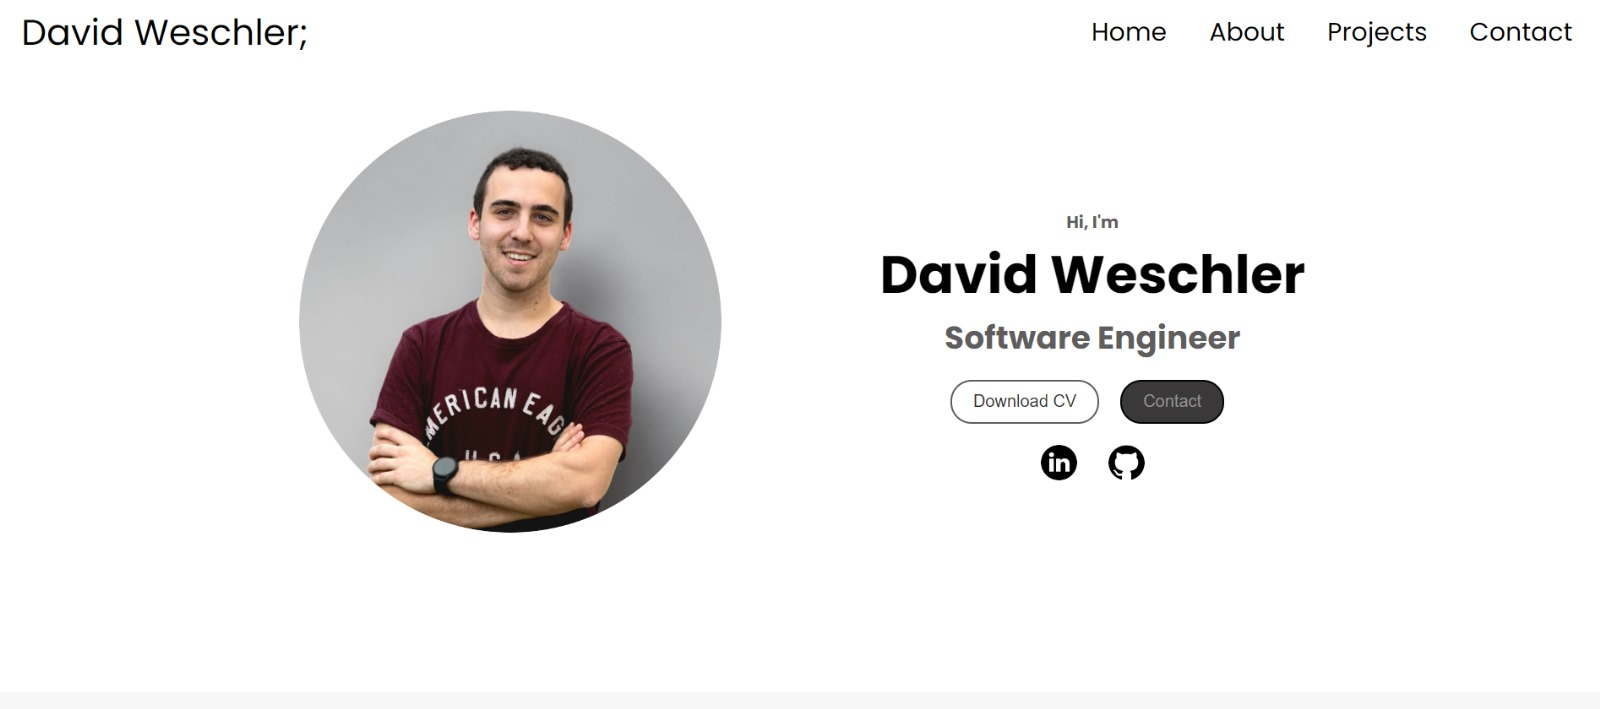
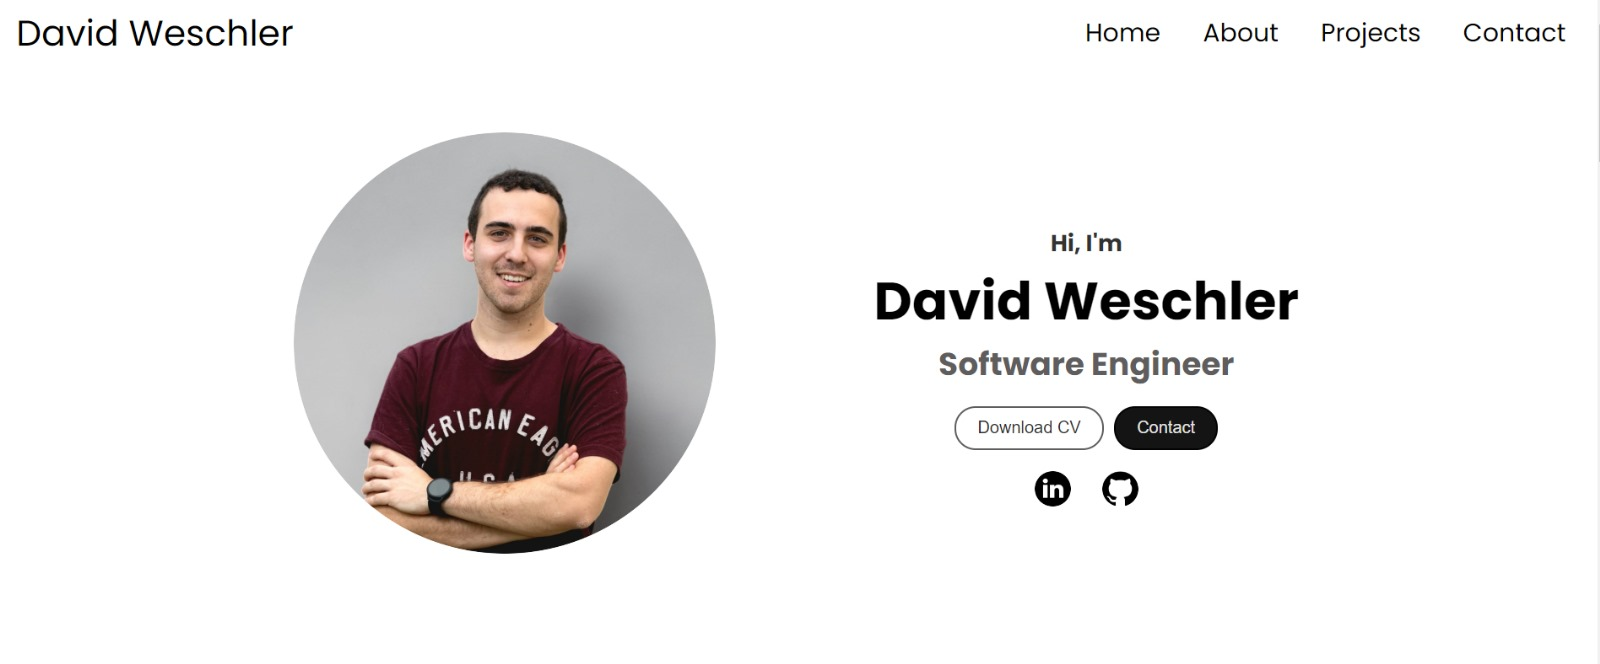
done with the footer. next step: mediaquaries

diff --git a/index.html b/index.html
@@ -10,7 +10,7 @@
   <body>
     <section id="header">
       <nav>
-        <p>David Weschler;</p>
+        <p>David Weschler</p>
         <div class="hamburger">&#9776;</div>
         <ul id="navbar">
           <li><a href="#home">Home</a></li>
@@ -207,41 +207,41 @@
       <div class="section-info">
         <header class="sec-header"><h1>Keep in touch</h1></header>
         <p id="contact-msg">
-          Feel free to drop a message, reach out or just say hello 😎
+          Feel free to drop a message, reach out or just say Hello! 😎
         </p>
-        <form id="contact-form">
-          <input placeholder="Full Name" />
-
+        <form
+          id="contact-form"
+          action="https://formsubmit.co/davidweschler8@gmail.com"
+          method="POST"
+        >
+          <input type="text" name="name" placeholder="Name" required />
           <input
             type="email"
+            name="email"
             placeholder="Email"
             pattern="[a-z0-9._%+-]+@[a-z0-9.-]+\.[a-z]{2,}$"
             required
           />
+          <textarea name="message" placeholder="Message" required></textarea>
 
-          <textarea placeholder="Message" required></textarea>
+          <input
+            type="hidden"
+            name="_next"
+            value="http://127.0.0.1:5501/My_portfolio"
+          />
+          <input type="hidden" name="_captcha" value="false" />
+
           <button type="submit">Send</button>
         </form>
       </div>
     </section>
 
-    <!-- <section id="delete_this">
-      <p>
-        -------------------------------------------------------------------------------------Practice
-        Here----------------------------------------------
-      </p>
-      <p>visit <a href="https://chatgpt.com/">ChatGPT</a></p>
-
-      <form action="https://www.google.com/search" method="get" target="_blank">
-        <input name="q" autofocus placeholder="type here" type="search" />
-        <button>search</button>
-      </form>
-    </section> -->
+    <footer>
+      <div class="footer-content">
+        <p>Copyright © 2024 David Weschler - All rights reserved.</p>
+      </div>
+    </footer>
 
     <script src="script.js"></script>
   </body>
 </html>
-
-<!--add a form in contact, use regex to validate the email: <input pattern="regex_here"-->
-
-<!--use semantic tags!!! no divs-->

diff --git a/style.css b/style.css
@@ -23,7 +23,7 @@ h3 {
 }
 
 h4 {
-  color: #333;
+  color: #5c5c5c;
   font-size: 22px;
 }
 
@@ -179,19 +179,19 @@ body {
   border-radius: 20px;
   border: 2px solid #030303;
   padding: 10px 20px;
-  background-color: #3a3939;
+  background-color: #141414;
   font-size: 16px;
-  color: #949494;
+  color: #e2e2e2;
   transition: background-color 0.3s ease, color 0.3s ease;
 }
 
 #cv-btn:hover {
   cursor: pointer;
-  background-color: #5f5e5e;
+  background-color: #777777;
 }
 
 #contact-btn:hover {
-  background-color: #575757;
+  background-color: #777777;
   color: #000000;
 }
 
@@ -398,6 +398,7 @@ body {
 
 textarea {
   height: 120px;
+  max-height: 300px;
   resize: vertical;
 }
 
@@ -413,10 +414,16 @@ textarea {
   border-radius: 20px;
   font-size: 20px;
   color: white;
-  background-color: #707070;
+  background-color: #797979;
   cursor: pointer;
 }
 
 #contact-form button:hover {
   background-color: #397456;
+}
+
+footer {
+  background-color: #eeeeee;
+  padding: 20px;
+  text-align: center;
 }

diff --git a/script.js b/script.js
@@ -3,7 +3,12 @@
 const hamburger = document.querySelector('.hamburger');
 const navbar = document.getElementById('navbar');
 const skillItems = document.querySelectorAll('.skill-item');
-// const form = document.getElementById('contact-form');
+
+document.getElementById('contact-btn').addEventListener('click', function () {
+  document.getElementById('contact').scrollIntoView({
+    behavior: 'smooth',
+  });
+});
 
 // Hamburger Menu:
 hamburger.addEventListener('click', function () {
@@ -28,12 +33,3 @@ skillItems.forEach(item => {
     img.src = originalSrc;
   });
 });
-
-// form.addEventListener('submit', function (event) {
-//   const emailInput = document.querySelector('input[type="email"]');
-//   const emailPattern = /^[a-z0-9._%+-]+@[a-z0-9.-]+\.[a-z]{2,}$/;
-
-//   if (!emailPattern.test(emailInput.value)) {
-//     // event.preventDefault();
-//   }
-// });
